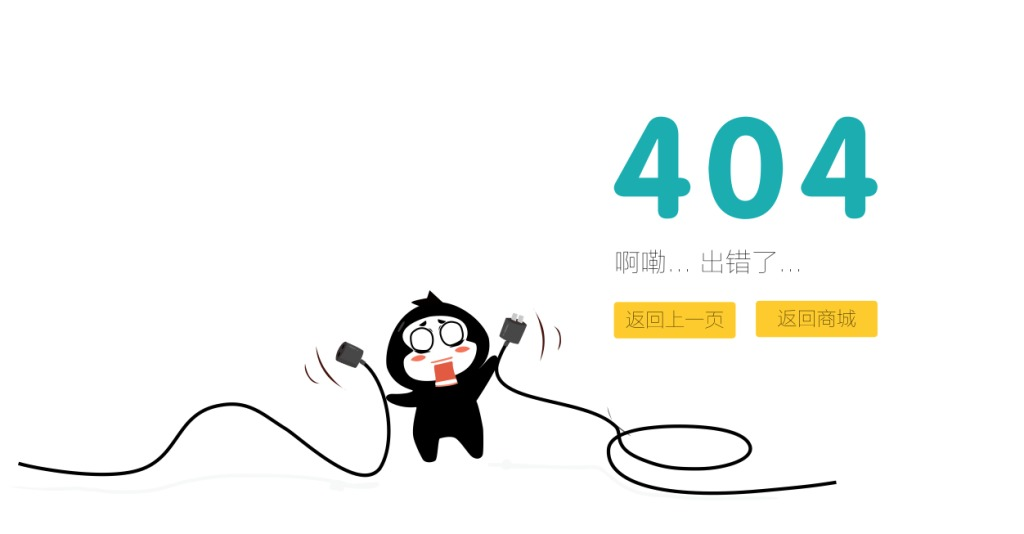
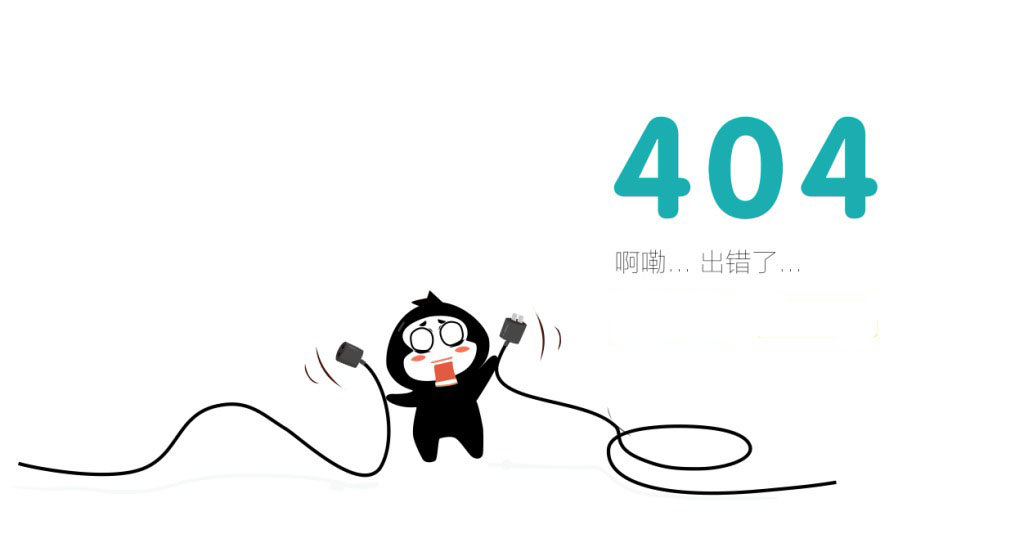
更改了404.jsp、my_err_404.css页面。 更改了客户模块的right.jsp、right.css、top.jsp页面。

Changed region(s): [[0.5938, 0.5393, 0.875, 0.6592]]

diff --git a/src/main/webapp/jsp/shop/css/my_error_404.css b/src/main/webapp/jsp/shop/css/my_error_404.css
@@ -1,0 +1,26 @@
+.error_404_1{
+    width:95px;
+    height:40px;
+    background-color: #f0ad4e;
+    margin: -200px 610px;
+    position: absolute;
+    border-radius: 15px;
+
+}
+.error_404_2{
+    width:95px;
+    height:40px;
+    background-color: #f0ad4e;
+    margin: -200px 780px;
+    position: absolute;
+    border-radius: 15px;
+}
+a{
+    font-size: 14px;
+    font-family: 'Roboto Slab', serif;
+    font-weight: bold;
+    color:#8c8c8c;
+    text-decoration: none;
+    line-height:45px;
+    margin-left: 10px;
+}

diff --git a/src/main/webapp/jsp/customer/css/right.css b/src/main/webapp/jsp/customer/css/right.css
@@ -93,6 +93,9 @@ li{
 	width:40px;
 	padding:5px 8px;
 }
+#female{
+	margin-left: 70px;
+}
 /*给类名为usually的元素下的input和textarea标签设置背景颜色、背景图片、边框、外阴影、内阴影、边框圆角以及内边距地过渡效果*/
 .usually input,.usually textarea{
 	background:#fff url(../images/attention.png) no-repeat 98% center;
